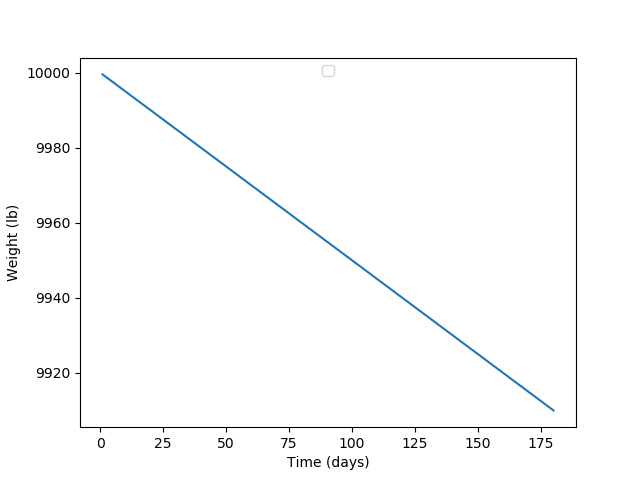
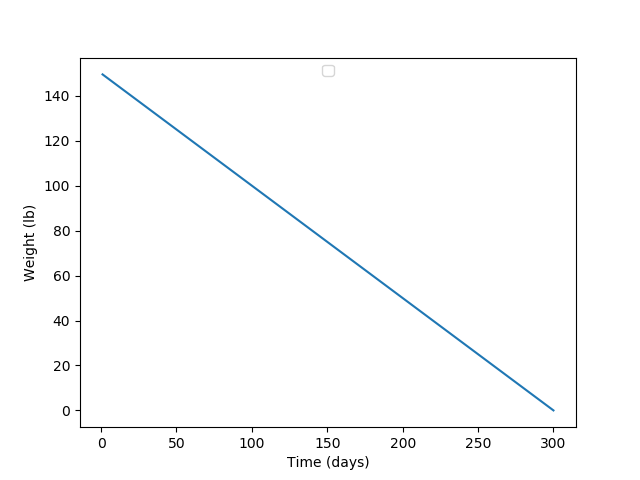
changed variable names to be more clear

diff --git a/DietExerciseModel.py b/DietExerciseModel.py
@@ -8,8 +8,7 @@
 import matplotlib.pyplot as plot
 
 timepoints = []
-xpoints = []
-ypoints = []
+wpoints = []
 
 
 rate = 0.5
@@ -19,9 +18,9 @@ dt = 1 # timestep
 
 # initialization
 time = 0
-x = 10000
+weight = 150
 
-dx = 0
+dw = 0
 
 
 age = input("Please enter your age:")
@@ -37,30 +36,33 @@ totalTime = 30 * int(input("How many months would you like to model this diet fo
 
 # print output header and starting values
 print ("  Time  Weight   Change")
-print ("%6.2f  %6.2f%6.2f " % (time, x, dx))
+print ("%6.2f  %6.2f%6.2f " % (time, weight, dw))
 
 
 # integration time loop
 while time < totalTime: # run until a troop is eliminated
   # compute derivatives
-  dx = -rate  # x attrition rate
+  dw = -rate  # x attrition rate
   
   # increment time
   time += dt # time = time+ dt
   # update troop state variables
-  x += dx # x = x + dx*dt
-  if(x<0):
-    x = 0
+  weight += dw # calculate new weight
   
   
-  print ("%6.2f  %6.2f  %6.2f " % (time, x, dx*dt))
-  xpoints.append(x)
+  if(weight<0): # edge case to prevent errors
+    weight = 0
+    break # stop looping
+  
+  
+  print ("%6.2f  %6.2f  %6.2f " % (time, weight, dw))
+  wpoints.append(weight)
   timepoints.append(time)
   
  
 plot.xlabel('Time (days)')
 plot.ylabel('Weight (lb)')
-plot.plot(timepoints,xpoints)
+plot.plot(timepoints,wpoints)
 plot.legend(loc='upper center')
 plot.show()
 plot.savefig('output.png')
